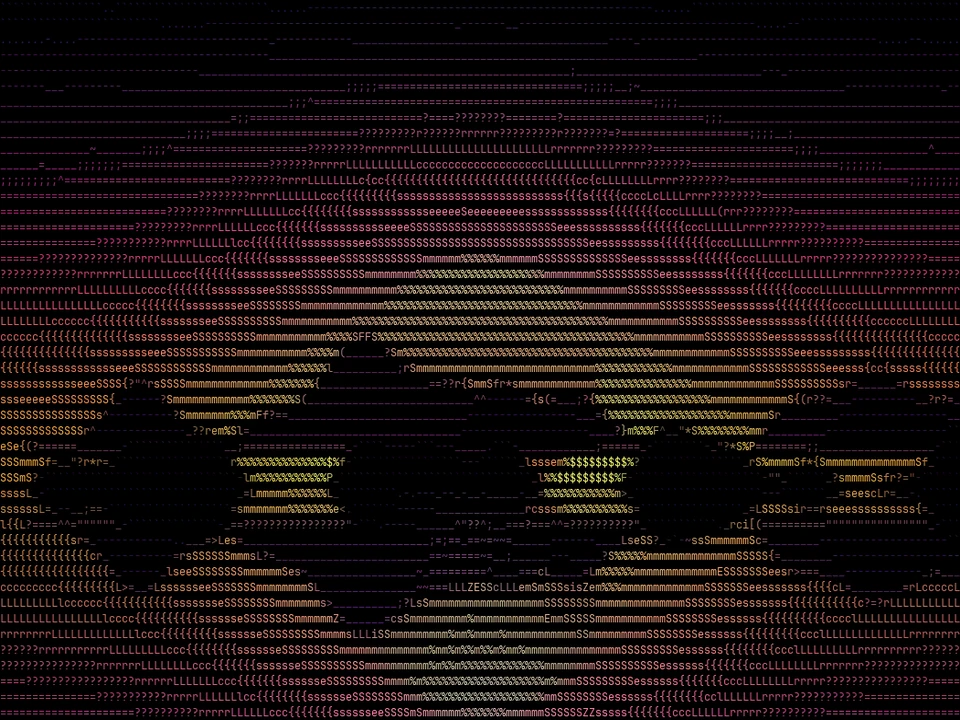
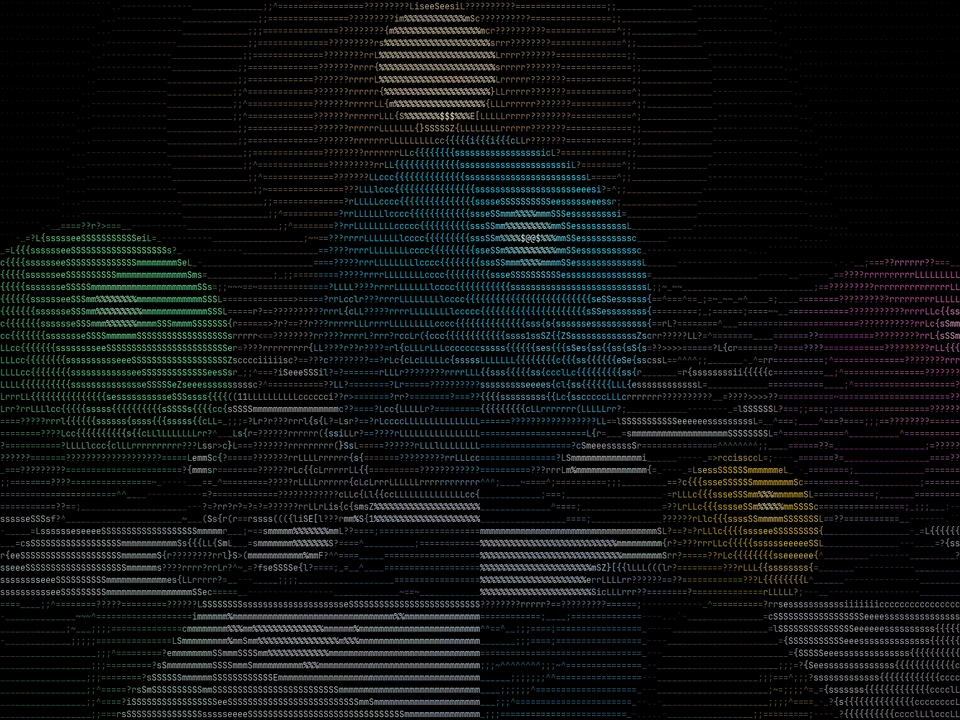
feat(site): replace the comparer demo with a ray-traced scene
The sunset landscape was flat vector art and converted to a dim, low-detail
ASCII image. A procedurally ray-traced scene (glossy spheres on a checkered
floor, near-black sky) has strong tonal structure, so the before/after reads
clearly. Both halves are generated by promo/gen_compare.py, the ASCII half by
the real CLI at 190 columns. Alt text, caption and README follow the new image.

diff --git a/site/app.js b/site/app.js
@@ -18,8 +18,8 @@
       'hero.lead': 'Arrastra una imagen, elige la calidad y exporta a TXT, HTML, SVG o PNG. También convierte video con audio y muestra tu webcam en vivo.',
       'hero.cta1': 'Descargar para Windows', 'hero.cta2': 'Ver cómo funciona', 'hero.meta': 'Windows 10 y 11 · No necesitas instalar Python · Licencia MIT',
       'hero.metaRel': 'Versión {tag} · {mb} MB · Windows 10 y 11 · Licencia MIT',
-      'cmp.alt1': 'Paisaje al atardecer con montañas y un lago: imagen original', 'cmp.alt2': 'El mismo paisaje convertido en arte ASCII a color', 'cmp.l': 'Original',
-      'cmp.range': 'Desliza para comparar el original con el arte ASCII', 'cmp.cap': 'Hecho con ASCII Vision · calidad High Quality · 150 columnas',
+      'cmp.alt1': 'Cinco esferas brillantes de colores sobre un piso de ajedrez con reflejos: imagen original', 'cmp.alt2': 'La misma escena convertida en arte ASCII a color', 'cmp.l': 'Original',
+      'cmp.range': 'Desliza para comparar el original con el arte ASCII', 'cmp.cap': 'Hecho con ASCII Vision · calidad High Quality · 190 columnas',
       'feat.eyebrow': 'Funciones', 'feat.title': 'Todo lo que necesitas, en una sola app.', 'feat.desc': 'Pensada para que el resultado se vea bien a la primera y para afinarlo cuando quieras.',
       'f1.t': 'Arrastra y compara', 'f1.d': 'Suelta una imagen y desliza el divisor para comparar el original con el arte ASCII.',
       'f2.t': 'Cuatro niveles de calidad', 'f2.d': 'Fast, Balanced, High y Maximum. Cada uno ajusta la métrica (Brightness, MSE, SSIM) y el juego de caracteres.',
@@ -57,8 +57,8 @@
       'hero.lead': 'Drag in an image, pick the quality and export to TXT, HTML, SVG or PNG. It also converts video with audio and shows your webcam live.',
       'hero.cta1': 'Download for Windows', 'hero.cta2': 'See how it works', 'hero.meta': 'Windows 10 and 11 · No need to install Python · MIT license',
       'hero.metaRel': 'Version {tag} · {mb} MB · Windows 10 and 11 · MIT license',
-      'cmp.alt1': 'Sunset landscape with mountains and a lake: original image', 'cmp.alt2': 'The same landscape converted to colour ASCII art', 'cmp.l': 'Original',
-      'cmp.range': 'Slide to compare the original with the ASCII art', 'cmp.cap': 'Made with ASCII Vision · High Quality preset · 150 columns',
+      'cmp.alt1': 'Five glossy coloured spheres on a reflective checkerboard floor: original image', 'cmp.alt2': 'The same scene converted to colour ASCII art', 'cmp.l': 'Original',
+      'cmp.range': 'Slide to compare the original with the ASCII art', 'cmp.cap': 'Made with ASCII Vision · High Quality preset · 190 columns',
       'feat.eyebrow': 'Features', 'feat.title': 'Everything you need, in one app.', 'feat.desc': 'Built so the result looks good on the first try, and so you can fine-tune it whenever you want.',
       'f1.t': 'Drag and compare', 'f1.d': 'Drop an image and slide the divider to compare the original with the ASCII art.',
       'f2.t': 'Four quality levels', 'f2.d': 'Fast, Balanced, High and Maximum. Each one sets the metric (Brightness, MSE, SSIM) and the character set.',

diff --git a/site/index.html b/site/index.html
@@ -104,14 +104,14 @@
 
       <figure class="cmp cut-card" id="cmp">
         <div class="cmp__stage">
-          <img class="cmp__img" src="assets/compare-original.webp" width="960" height="720" alt="Paisaje al atardecer con montañas y un lago: imagen original" data-i18n-attr="alt:cmp.alt1">
-          <img class="cmp__img cmp__ascii" src="assets/compare-ascii.webp" width="960" height="720" alt="El mismo paisaje convertido en arte ASCII a color" data-i18n-attr="alt:cmp.alt2">
+          <img class="cmp__img" src="assets/compare-original.webp" width="960" height="720" alt="Cinco esferas brillantes de colores sobre un piso de ajedrez con reflejos: imagen original" data-i18n-attr="alt:cmp.alt1">
+          <img class="cmp__img cmp__ascii" src="assets/compare-ascii.webp" width="960" height="720" alt="La misma escena convertida en arte ASCII a color" data-i18n-attr="alt:cmp.alt2">
           <span class="cmp__line" aria-hidden="true"><span class="cmp__knob"><svg class="ico"><use href="#i-compare"/></svg></span></span>
           <span class="cmp__tag cmp__tag--l mono" data-i18n="cmp.l">Original</span>
           <span class="cmp__tag cmp__tag--r mono">ASCII</span>
           <input class="cmp__range" id="cmp-range" type="range" min="0" max="100" value="50" step="1" aria-label="Desliza para comparar el original con el arte ASCII" data-i18n-attr="aria-label:cmp.range">
         </div>
-        <figcaption class="mono" data-i18n="cmp.cap">Hecho con ASCII Vision · calidad High Quality · 150 columnas</figcaption>
+        <figcaption class="mono" data-i18n="cmp.cap">Hecho con ASCII Vision · calidad High Quality · 190 columnas</figcaption>
         <span class="cut-card__corner cut-card__corner--tr" aria-hidden="true"></span>
         <span class="cut-card__corner cut-card__corner--bl" aria-hidden="true"></span>
       </figure>

diff --git a/promo/gen_compare.py b/promo/gen_compare.py
@@ -1,0 +1,171 @@
+"""Render the landing page's before/after pair.
+
+A small numpy ray tracer draws glossy spheres on a checkered floor (soft gradients, sharp edges, reflections and
+specular highlights: the content ASCII Vision shows off best). The ASCII half is produced by the real CLI, so the page
+shows the tool's own output. No third-party photos are involved.
+
+Writes site/assets/compare-original.webp and site/assets/compare-ascii.webp (both 960x720).
+
+    pip install -e .                 # from the repository root
+    python promo/gen_compare.py [columns]
+"""
+import os
+import subprocess
+import sys
+import tempfile
+
+import numpy as np
+from PIL import Image
+
+ROOT = os.path.dirname(os.path.dirname(os.path.abspath(__file__)))
+OUT = os.path.join(ROOT, "site", "assets")
+W, H, SS = 960, 720, 2          # final size and supersampling factor (anti-aliasing)
+COLUMNS = int(sys.argv[1]) if len(sys.argv) > 1 else 190
+EPS = 1e-3
+
+EYE = np.array([0.0, 1.7, -7.4], np.float32)
+TARGET = np.array([0.0, 0.85, 0.0], np.float32)
+FOV_Y = 38.0
+LIGHT = np.array([-0.55, 0.85, -0.55], np.float32)
+LIGHT /= np.linalg.norm(LIGHT)
+
+# center, radius, colour, mirror reflectivity, specular strength
+SPHERES = [
+    ((0.0, 1.2, 0.0), 1.2, (0.00, 0.72, 1.00), 0.16, 0.9),
+    ((-2.65, 0.8, -0.9), 0.8, (1.00, 0.08, 0.52), 0.12, 0.8),
+    ((2.55, 0.9, -0.5), 0.9, (0.12, 1.00, 0.30), 0.14, 0.8),
+    ((0.95, 0.42, -2.3), 0.42, (0.92, 0.94, 1.00), 0.85, 1.0),
+    ((-1.2, 0.36, -2.7), 0.36, (1.00, 0.58, 0.00), 0.12, 0.8),
+]
+FLOOR_DARK = np.array([0.012, 0.016, 0.04], np.float32)
+FLOOR_LIGHT = np.array([0.95, 0.98, 1.00], np.float32)
+HORIZON = np.array([0.025, 0.010, 0.012], np.float32)
+ZENITH = np.array([0.0, 0.0, 0.012], np.float32)
+SUN_DIR = np.array([0.04, 0.16, 1.0], np.float32)
+SUN_DIR /= np.linalg.norm(SUN_DIR)
+
+
+def sky(d):
+    t = np.clip(d[:, 1], 0, 1)[:, None] ** 0.45
+    col = HORIZON * (1 - t) + ZENITH * t
+    cos_sun = d @ SUN_DIR
+    col += np.exp((cos_sun - 1) * 70)[:, None] * np.array([1.0, 0.62, 0.30], np.float32) * 0.45
+    col += (cos_sun > 0.9985)[:, None] * np.array([1.0, 0.92, 0.7], np.float32)
+    return col
+
+
+def intersect(o, d):
+    """Nearest hit per ray: distance and object id (-2 floor, -1 miss, k sphere)."""
+    t = np.full(len(o), np.inf, np.float32)
+    idx = np.full(len(o), -1, np.int8)
+    with np.errstate(divide="ignore", invalid="ignore"):
+        tp = -o[:, 1] / d[:, 1]
+    floor = (d[:, 1] < 0) & (tp > EPS)
+    t[floor], idx[floor] = tp[floor], -2
+    for k, (c, r, *_rest) in enumerate(SPHERES):
+        oc = o - np.array(c, np.float32)
+        b = (oc * d).sum(1)
+        disc = b * b - ((oc * oc).sum(1) - r * r)
+        hit = disc > 0
+        ts = np.where(hit, -b - np.sqrt(np.where(hit, disc, 0)), np.inf)
+        closer = hit & (ts > EPS) & (ts < t)
+        t[closer], idx[closer] = ts[closer], k
+    return t, idx
+
+
+def shade(o, d, depth):
+    t, idx = intersect(o, d)
+    col = sky(d)
+    hit = idx != -1
+    if not hit.any():
+        return col
+    oh, dh, th, ih = o[hit], d[hit], t[hit], idx[hit]
+    p = oh + dh * th[:, None]
+    n = np.zeros_like(p)
+    base = np.zeros_like(p)
+    refl = np.zeros(len(p), np.float32)
+    spec_k = np.zeros(len(p), np.float32)
+
+    f = ih == -2
+    n[f] = (0, 1, 0)
+    check = (np.floor(p[f, 0] / 1.3) + np.floor(p[f, 2] / 1.3)) % 2
+    fc = np.where(check[:, None] > 0, FLOOR_LIGHT, FLOOR_DARK)
+    fade = np.exp(-np.clip(th[f] - 6, 0, None) / 22)[:, None]       # blend into the horizon glow
+    base[f] = fc * fade + HORIZON * 0.18 * (1 - fade)
+    refl[f], spec_k[f] = 0.28, 0.25
+    for k, (c, r, colour, rf, sp) in enumerate(SPHERES):
+        m = ih == k
+        n[m] = (p[m] - np.array(c, np.float32)) / r
+        base[m], refl[m], spec_k[m] = colour, rf, sp
+
+    diff = np.clip(n @ LIGHT, 0, None)
+    shadow_t, _ = intersect(p + n * EPS * 4, np.broadcast_to(LIGHT, p.shape).copy())
+    lit = np.isinf(shadow_t)
+    half = LIGHT - dh
+    half /= np.linalg.norm(half, axis=1, keepdims=True)
+    spec = np.clip((n * half).sum(1), 0, None) ** 90 * spec_k * lit
+    ambient = np.array([0.22, 0.26, 0.36], np.float32)
+    rim = (np.clip(1 + (n * dh).sum(1), 0, 1) ** 3)[:, None] * np.array([0.25, 0.45, 0.7], np.float32) * (ih >= 0)[:, None] * 0.5
+    out = base * (ambient + (diff * lit)[:, None] * 1.25) + spec[:, None] + rim * 0.5
+
+    if depth > 0:
+        cos_t = np.clip(-(n * dh).sum(1), 0, 1)
+        kr = refl + (1 - refl) * (1 - cos_t) ** 5 * 0.4
+        rd = dh - 2 * (dh * n).sum(1, keepdims=True) * n
+        rc = shade(p + n * EPS * 4, rd, depth - 1)
+        out = out * (1 - kr[:, None]) + rc * kr[:, None]
+    col[hit] = out
+    return col
+
+
+def render():
+    w, h = W * SS, H * SS
+    fwd = TARGET - EYE
+    fwd /= np.linalg.norm(fwd)
+    right = np.cross(fwd, np.array([0, 1, 0], np.float32))
+    right /= np.linalg.norm(right)
+    up = np.cross(right, fwd)
+    half_h = np.tan(np.radians(FOV_Y) / 2)
+    xs = (np.arange(w, dtype=np.float32) + 0.5) / w * 2 - 1
+    ys = 1 - (np.arange(h, dtype=np.float32) + 0.5) / h * 2
+    gx, gy = np.meshgrid(xs * half_h * (w / h), ys * half_h)
+    d = fwd + gx[..., None] * right + gy[..., None] * up
+    d = (d / np.linalg.norm(d, axis=2, keepdims=True)).reshape(-1, 3).astype(np.float32)
+    o = np.broadcast_to(EYE, d.shape).copy()
+    img = np.empty((h * w, 3), np.float32)
+    step = 400_000                                # keep peak memory modest
+    for i in range(0, len(d), step):
+        img[i:i + step] = shade(o[i:i + step], d[i:i + step], 2)
+    img = img.reshape(h, w, 3)
+    # vignette + filmic-ish tone curve + gamma
+    yy, xx = np.mgrid[0:h, 0:w].astype(np.float32)
+    r2 = ((xx / w - 0.5) ** 2 + (yy / h - 0.5) ** 2) * 1.6
+    img *= (1 - r2)[..., None]
+    img = img / (1 + 0.15 * img)
+    img = np.clip(img, 0, 1) ** (1 / 2.2)
+    img = img.reshape(H, SS, W, SS, 3).mean(axis=(1, 3))      # box-filter downsample
+    return Image.fromarray((np.clip(img, 0, 1) * 255 + 0.5).astype(np.uint8))
+
+
+def main():
+    os.makedirs(OUT, exist_ok=True)
+    original = render()
+    original.save(os.path.join(OUT, "compare-original.webp"), quality=90, method=6)
+    with tempfile.TemporaryDirectory() as tmp:
+        src, dst = os.path.join(tmp, "scene.png"), os.path.join(tmp, "ascii.png")
+        original.save(src)
+        subprocess.run(
+            [sys.executable, "-c", "import sys; from ascii_vision.cli import main; sys.exit(main())",
+             "--input", src, "--output", dst, "--preset", "High Quality",
+             "--columns", str(COLUMNS), "--color"],
+            check=True,
+        )
+        ascii_img = Image.open(dst).convert("RGB")
+        print("cli output", ascii_img.size)
+        ascii_img.resize((W, H), Image.LANCZOS).save(os.path.join(OUT, "compare-ascii.webp"), quality=90, method=6)
+    for name in ("compare-original.webp", "compare-ascii.webp"):
+        print(name, os.path.getsize(os.path.join(OUT, name)) // 1024, "KB")
+
+
+if __name__ == "__main__":
+    main()

diff --git a/site/README.md b/site/README.md
@@ -14,8 +14,10 @@ the Windows installer. It follows the **Symmetrical Code design system** (`DESIG
   focus trap, Escape to close), CSS-only grid + glow backdrop, no continuous animation, `prefers-reduced-motion` honoured.
 * **Voice** — Spanish (MX, "tú") with a full English mirror (toggle in the navbar, persisted in `localStorage['sc-lang']`).
 * **The tool's touch** — a single terminal-green accent (`--svc-accent`, the same override mechanism the Symmetrical Code
-  service pages use) and a before/after comparer built from the app's own output (`assets/compare-*.webp`, generated
-  with `ascii-vision --preset "High Quality" --columns 150 --color`).
+  service pages use) and a before/after comparer built from the app's own output. `assets/compare-original.webp` is a procedurally
+  ray-traced scene and `assets/compare-ascii.webp` is its conversion with
+  `ascii-vision --preset "High Quality" --columns 190 --color`; regenerate both with `python promo/gen_compare.py`
+  (no third-party photos).
 * Contrast: text uses `--muted` rather than `--subtle` (3.6:1 dark / 2.9:1 light) and code flags use the brand blue on the
   light theme (the light cyan is 3.7:1), so every text colour clears the 4.5:1 floor the design system asks for.
 
